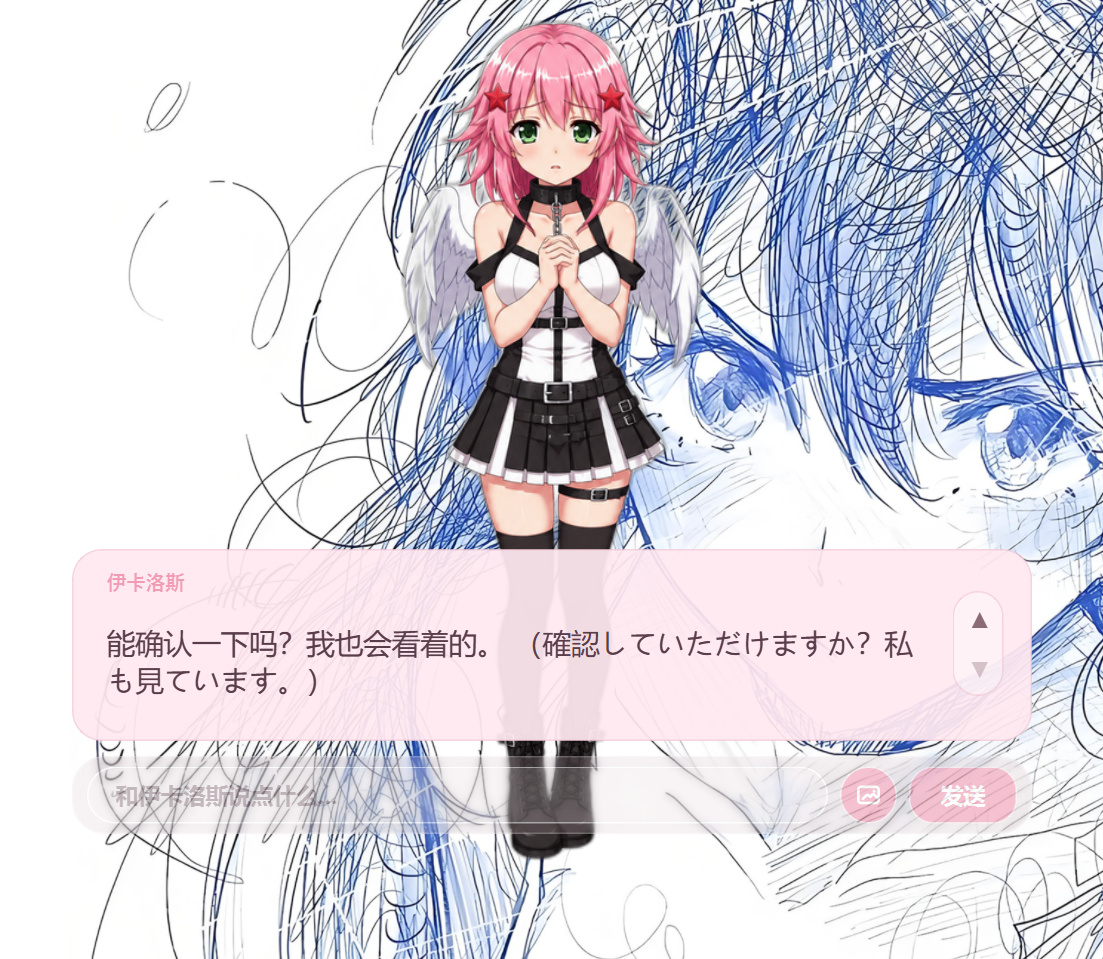
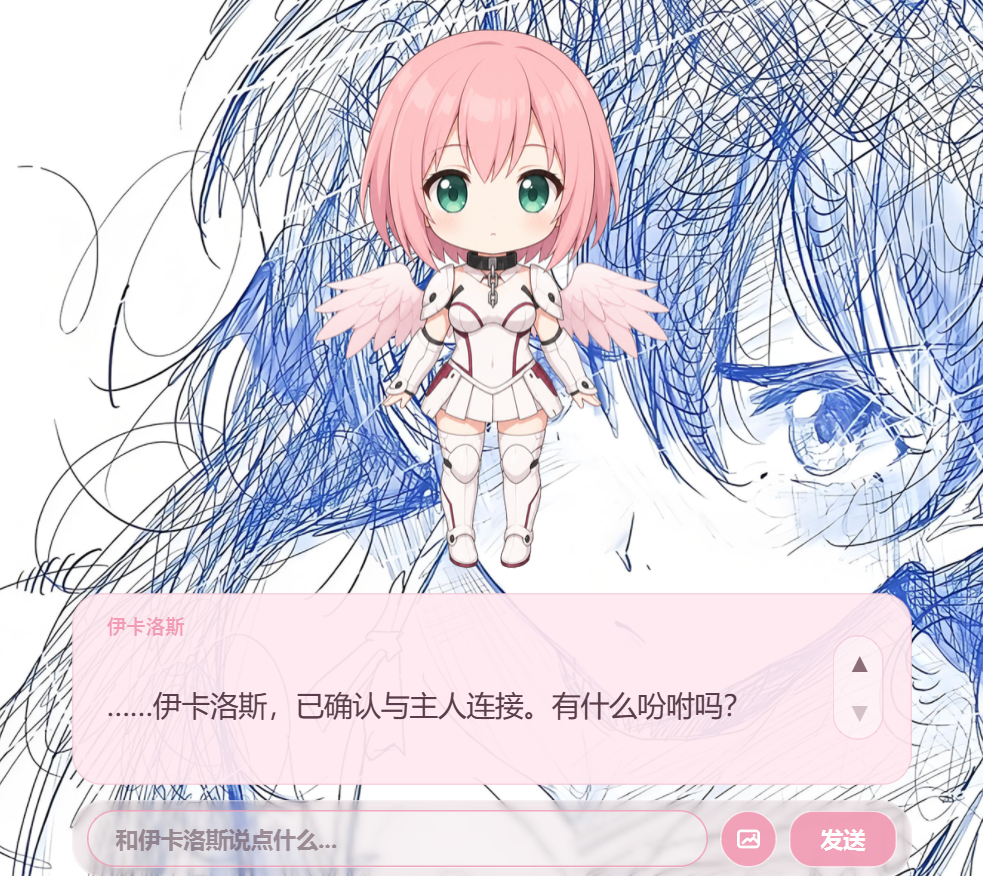
release: v1.1——Q 版立绘预览图、置顶特性、P8 视觉修复补丁自动化、审查整改文档

diff --git a/tools/apply_patches.py b/tools/apply_patches.py
@@ -410,6 +410,57 @@ PATCHES = [
         ],
     },
     {
+        "id": "P8-vision-repair-strip-images",
+        "file": "app/agent/runtime.py",
+        "marker": "本地适配（ikaros-dsh-pet）：修复请求剥离图片",
+        "steps": [
+            (
+                '                    "zh 保留或补充与 ja 对应的中文译文。"\n'
+                "                ),\n"
+                "            },\n"
+                "        ]\n"
+                "        try:",
+                '                    "zh 保留或补充与 ja 对应的中文译文。"\n'
+                "                ),\n"
+                "            },\n"
+                "        ]\n"
+                "        # 本地适配（ikaros-dsh-pet）：修复请求剥离图片，让文本模型（如 DeepSeek）\n"
+                "        # 基于已有上下文与视觉模型的文字输出完成格式修复；否则带图消息会再次路由\n"
+                "        # 到格式遵循较弱的免费视觉模型，导致反复非 JSON 输出。\n"
+                "        repair_messages = _strip_images_from_messages(repair_messages)\n"
+                "        try:",
+            ),
+            (
+                "from __future__ import annotations\n"
+                "\n"
+                "import json\n"
+                "import time",
+                "from __future__ import annotations\n"
+                "\n"
+                "import json\n"
+                "import time\n"
+                "\n"
+                "\n"
+                "def _strip_images_from_messages(messages: list[dict[str, Any]]) -> list[dict[str, Any]]:\n"
+                "    \"\"\"本地适配（ikaros-dsh-pet）：去掉消息内容里的图片块（保留文本），\n"
+                "    避免带图消息在格式修复时再次路由回格式遵循较弱的视觉模型。\"\"\"\n"
+                "    stripped: list[dict[str, Any]] = []\n"
+                "    for message in messages:\n"
+                "        content = message.get(\"content\")\n"
+                "        if isinstance(content, list):\n"
+                "            text_parts = [\n"
+                "                part for part in content\n"
+                "                if isinstance(part, dict) and part.get(\"type\") == \"text\"\n"
+                "            ]\n"
+                "            if text_parts:\n"
+                "                stripped.append({**message, \"content\": text_parts})\n"
+                "                continue\n"
+                "        stripped.append(message)\n"
+                "    return stripped",
+            ),
+        ],
+    },
+    {
         "id": "P7-ref-audio",
         "file": None,  # 特殊：创建文件
         "marker": REF_AUDIO_REL.name,

diff --git a/README.md b/README.md
@@ -22,13 +22,15 @@
 - **主动开口**：目标完成、工具失败、等待授权时伊卡洛斯主动说话（角色化回复 + 语音），120 秒冷却防打扰。
 - **伊卡洛斯声线**：VITS 语音桥（WSL 内运行，基于 Ikaros521/moe-tts 的 ikaros 模型，日语角色声线），日语/中文自动识别发音；edge-tts 作为免部署备选。
 - **双语字幕**：气泡显示「中文译文 + 日语原文注释」双行。
+- **Q 版立绘**：大头身 Q 版伊卡洛斯（粉色短发、白色战斗服、淡粉羽翼），5 张表情按语气自动切换；本地透明底素材（不入库）。
+- **窗口置顶**：永远浮在最上层，点开任何页面都不会被覆盖（可右键临时关闭）。
 - **低成本 LLM**：默认 DeepSeek-chat（低成本、格式遵循稳定），可切换任意 OpenAI 兼容服务（智谱 GLM-4-Flash 等，按服务商计费规则使用）。
 
 ## 🖼 效果预览
 
-<img src="https://raw.githubusercontent.com/3651667243-code/dsh-ikaros-pet/main/assets/screenshot.png" alt="运行效果：伊卡洛斯等待回复（双语字幕）" width="520"/>
+<img src="https://raw.githubusercontent.com/3651667243-code/dsh-ikaros-pet/main/assets/screenshot.png" alt="运行效果：Q 版伊卡洛斯开场" width="520"/>
 
-> 本机运行截图：伊卡洛斯「等待回复」的样子，气泡显示「中文译文 + 日语原文」双语字幕。
+> 本机运行截图：Q 版伊卡洛斯的开场白「……伊卡洛斯，已确认与主人连接。有什么吩咐吗？」。
 
 ## 🧩 版本兼容矩阵
 
